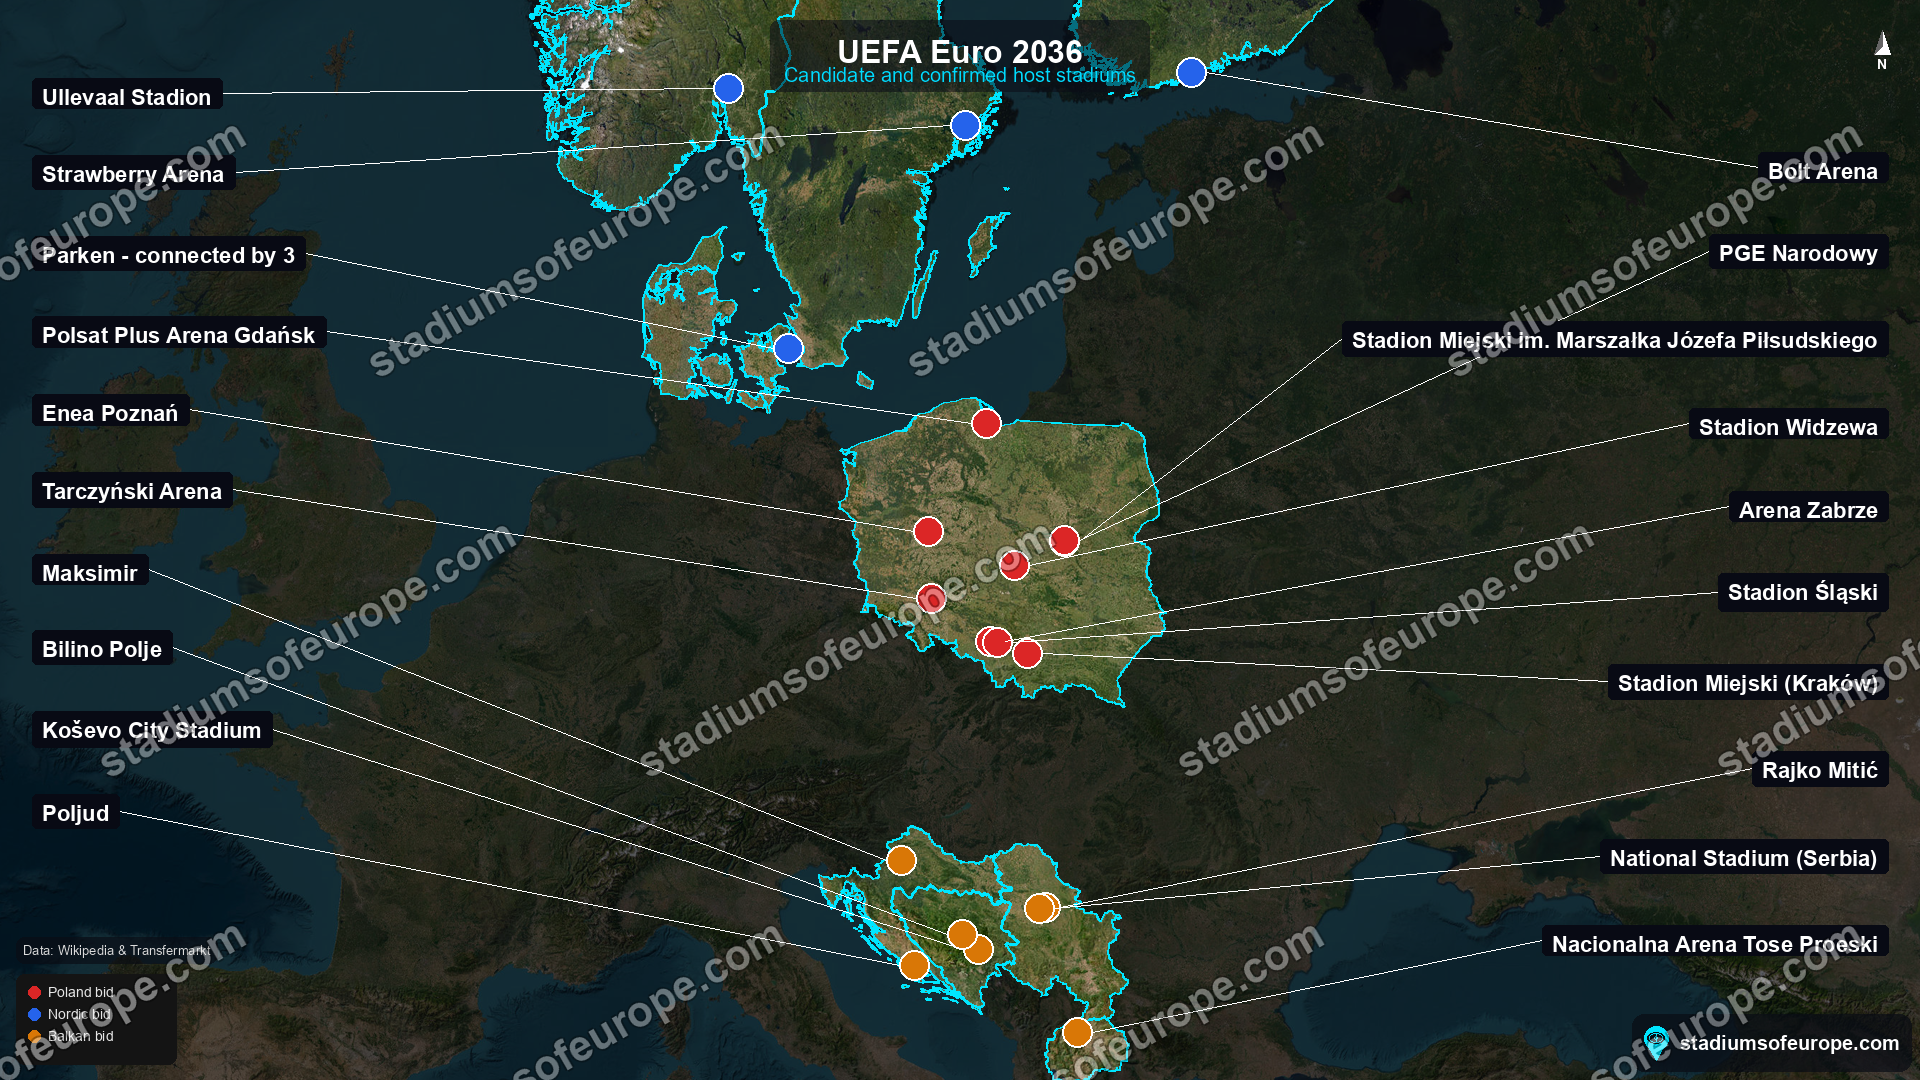
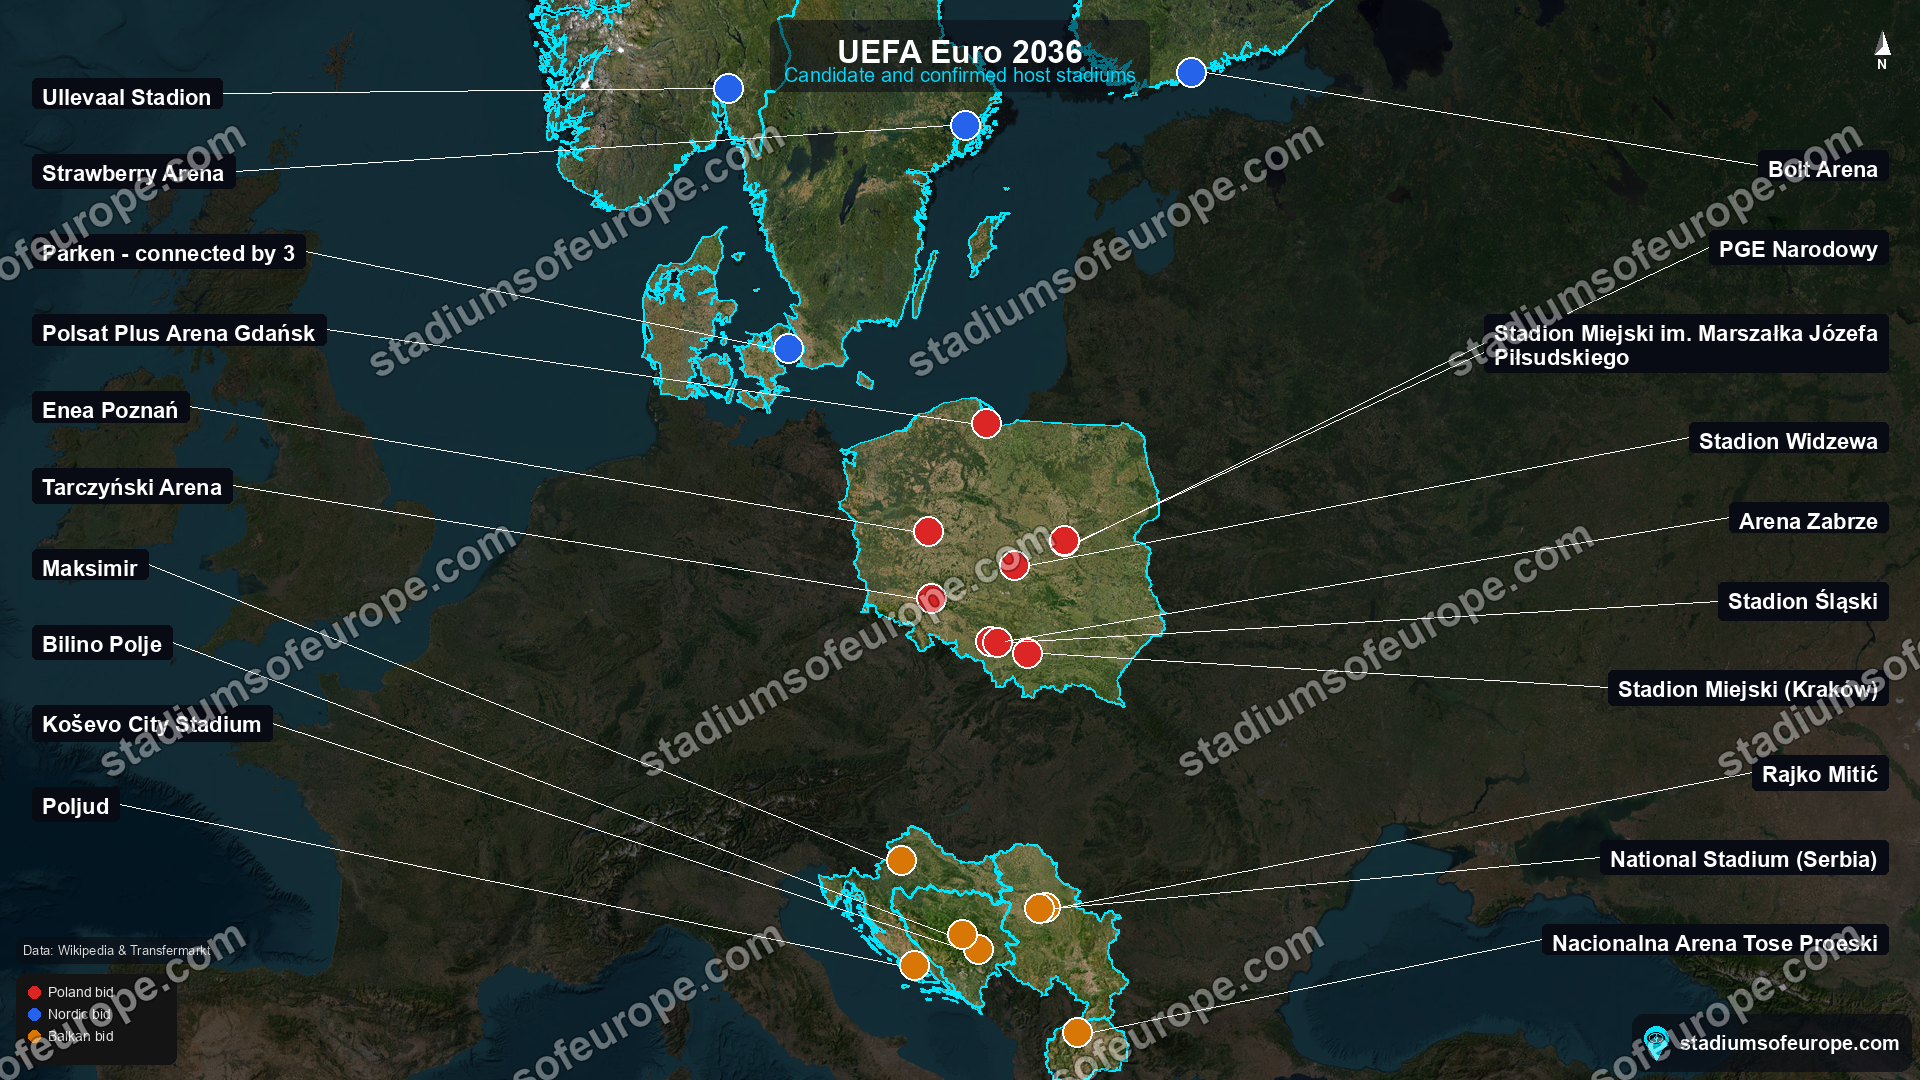
Wrap long map labels so pills stay in the margins and never cover badges
Root cause of the recurring 'labels covering badges': pill width was unbounded.
A name like 'Stadion Miejski im. Marszalka Jozefa Pilsudskiego' rendered ~540px
on one line, so its pill reached from the margin deep into the map and sat on
badges no matter where it was stacked vertically - no vertical placement could
fix it.

Labels now wrap to at most 23% of frame width (greedy word wrap over both the
team and stadium lines, rendered as N rows), which keeps every pill inside its
margin column where it cannot cover a badge. Also clamp each pill to the frame
so a tall wrapped column can never run off the bottom edge - it compresses
instead of dropping labels.

Regenerated all tournament + insight PNGs (94 tests pass).

diff --git a/italianstadia/italiastadiaapp/views.py b/italianstadia/italiastadiaapp/views.py
@@ -3447,25 +3447,49 @@ def _draw_dots_and_labels(img, stadiums, params, bbox, W, H, country_index,
     EDGE = max(20, int(min(W, H) * 0.03))
     GAPY = max(6, int(FONT_SZ * 0.35))
 
+    # Cap how wide a label may get. Names like "Stadion Miejski im. Marszałka Józefa
+    # Piłsudskiego" run half the frame on one line, so they reach across the map and
+    # sit on top of the badges however they're stacked vertically. Wrapping them
+    # keeps every pill inside its margin column, where it can't cover anything.
+    MAX_PILL_W = max(160, int(W * 0.23))
+
+    def _measure(text, font, fallback_cw):
+        try:
+            bb = draw.textbbox((0, 0), text, font=font)
+            return bb[2] - bb[0], bb[3] - bb[1]
+        except AttributeError:
+            return len(text) * fallback_cw, getattr(font, "size", FONT_SZ)
+
+    def _wrap(text, font, max_w, fallback_cw):
+        """Greedy word wrap to max_w. Returns [(line, w, h), ...]."""
+        words, lines, cur = text.split(), [], ""
+        for word in words:
+            trial = f"{cur} {word}".strip()
+            if cur and _measure(trial, font, fallback_cw)[0] > max_w:
+                lines.append(cur)
+                cur = word
+            else:
+                cur = trial
+        if cur:
+            lines.append(cur)
+        return [(ln,) + _measure(ln, font, fallback_cw) for ln in (lines or [text])]
+
     skip = no_label_names or set()
     items = []
+    inner_w = MAX_PILL_W - PAD_X * 2
     for px, py, s in dot_positions:
         if s["name"] in skip:
             continue                            # badge already drawn; label lives in the inset
         team_line, stadium_line = (s.get("team_name", "") or ""), s["name"]
-        try:
-            tb1 = draw.textbbox((0, 0), team_line, font=font_team)
-            tw1, th1 = tb1[2] - tb1[0], tb1[3] - tb1[1]
-            tb2 = draw.textbbox((0, 0), stadium_line, font=font_stadium)
-            tw2, th2 = tb2[2] - tb2[0], tb2[3] - tb2[1]
-        except AttributeError:
-            tw1, th1 = len(team_line) * 7, FONT_SZ2
-            tw2, th2 = len(stadium_line) * 9, FONT_SZ
-        show_team = bool(team_line)
-        items.append(dict(
-            px=px, py=py, team=team_line, stadium=stadium_line, show_team=show_team, th1=th1,
-            pill_w=max(tw1, tw2) + PAD_X * 2,
-            pill_h=(th1 + LINE_GAP + th2 if show_team else th2) + PAD_Y * 2))
+        rows = []                                # [(text, font, fill_key, w, h)]
+        if team_line:
+            for ln, w, h in _wrap(team_line, font_team, inner_w, 7):
+                rows.append((ln, font_team, "team", w, h))
+        for ln, w, h in _wrap(stadium_line, font_stadium, inner_w, 9):
+            rows.append((ln, font_stadium, "stadium", w, h))
+        pill_w = max(r[3] for r in rows) + PAD_X * 2
+        pill_h = sum(r[4] for r in rows) + LINE_GAP * (len(rows) - 1) + PAD_Y * 2
+        items.append(dict(px=px, py=py, rows=rows, pill_w=pill_w, pill_h=pill_h))
 
     # Split the labels into the two columns. Default: MEDIAN x, so roughly half go
     # each side. But when the badges form two clearly separated horizontal groups
@@ -3494,6 +3518,7 @@ def _draw_dots_and_labels(img, stadiums, params, bbox, W, H, country_index,
         overlap the column's x-range), sorted top-down."""
         return sorted((rb[1], rb[3]) for rb in (reserve_boxes or [])
                       if not (rb[2] < col_x0 or rb[0] > col_x1))
+
 
     def _place_column(col, side):
         if not col:
@@ -3527,16 +3552,21 @@ def _draw_dots_and_labels(img, stadiums, params, bbox, W, H, country_index,
         seg = 0
         cursor = free[0][0] + (gap if free_total > total_h else 0)
         for it in col:
+            x0, h = _x_for(it), it["pill_h"]
             # jump to the next free segment if this label won't fit in the current one
-            while seg < len(free) and cursor + it["pill_h"] > free[seg][1]:
+            while seg < len(free) and cursor + h > free[seg][1]:
                 seg += 1
                 if seg < len(free):
                     cursor = free[seg][0]
             if seg >= len(free):
-                it["lx"] = None                 # genuinely no room left
-                continue
-            it["lx"], it["ly"], it["side"] = _x_for(it), int(cursor), side
-            cursor += it["pill_h"] + gap
+                # Out of free space: keep the label (a missing label is worse than a
+                # tight fit) pinned inside the frame rather than dropping it.
+                cursor = min(cursor, H - EDGE - h)
+                seg = len(free) - 1
+            # Never let a pill run off the bottom edge.
+            it["ly"] = int(max(EDGE, min(cursor, H - EDGE - h)))
+            it["lx"], it["side"] = x0, side
+            cursor = it["ly"] + h + gap
 
     _place_column(left_col, "left")
     _place_column(right_col, "right")
@@ -3558,10 +3588,10 @@ def _draw_dots_and_labels(img, stadiums, params, bbox, W, H, country_index,
         lx, ly, pw, ph = it["lx"], it["ly"], it["pill_w"], it["pill_h"]
         draw.rounded_rectangle([lx, ly, lx + pw, ly + ph], radius=5, fill=(8, 10, 20, 220))
         ty = ly + PAD_Y
-        if it["show_team"]:
-            draw.text((lx + PAD_X, ty), it["team"], font=font_team, fill=team_rgb)
-            ty += it["th1"] + LINE_GAP
-        draw.text((lx + PAD_X, ty), it["stadium"], font=font_stadium, fill=label_rgb)
+        for text, font, kind, _w, h in it["rows"]:
+            draw.text((lx + PAD_X, ty), text, font=font,
+                      fill=team_rgb if kind == "team" else label_rgb)
+            ty += h + LINE_GAP
 
     return img
 
